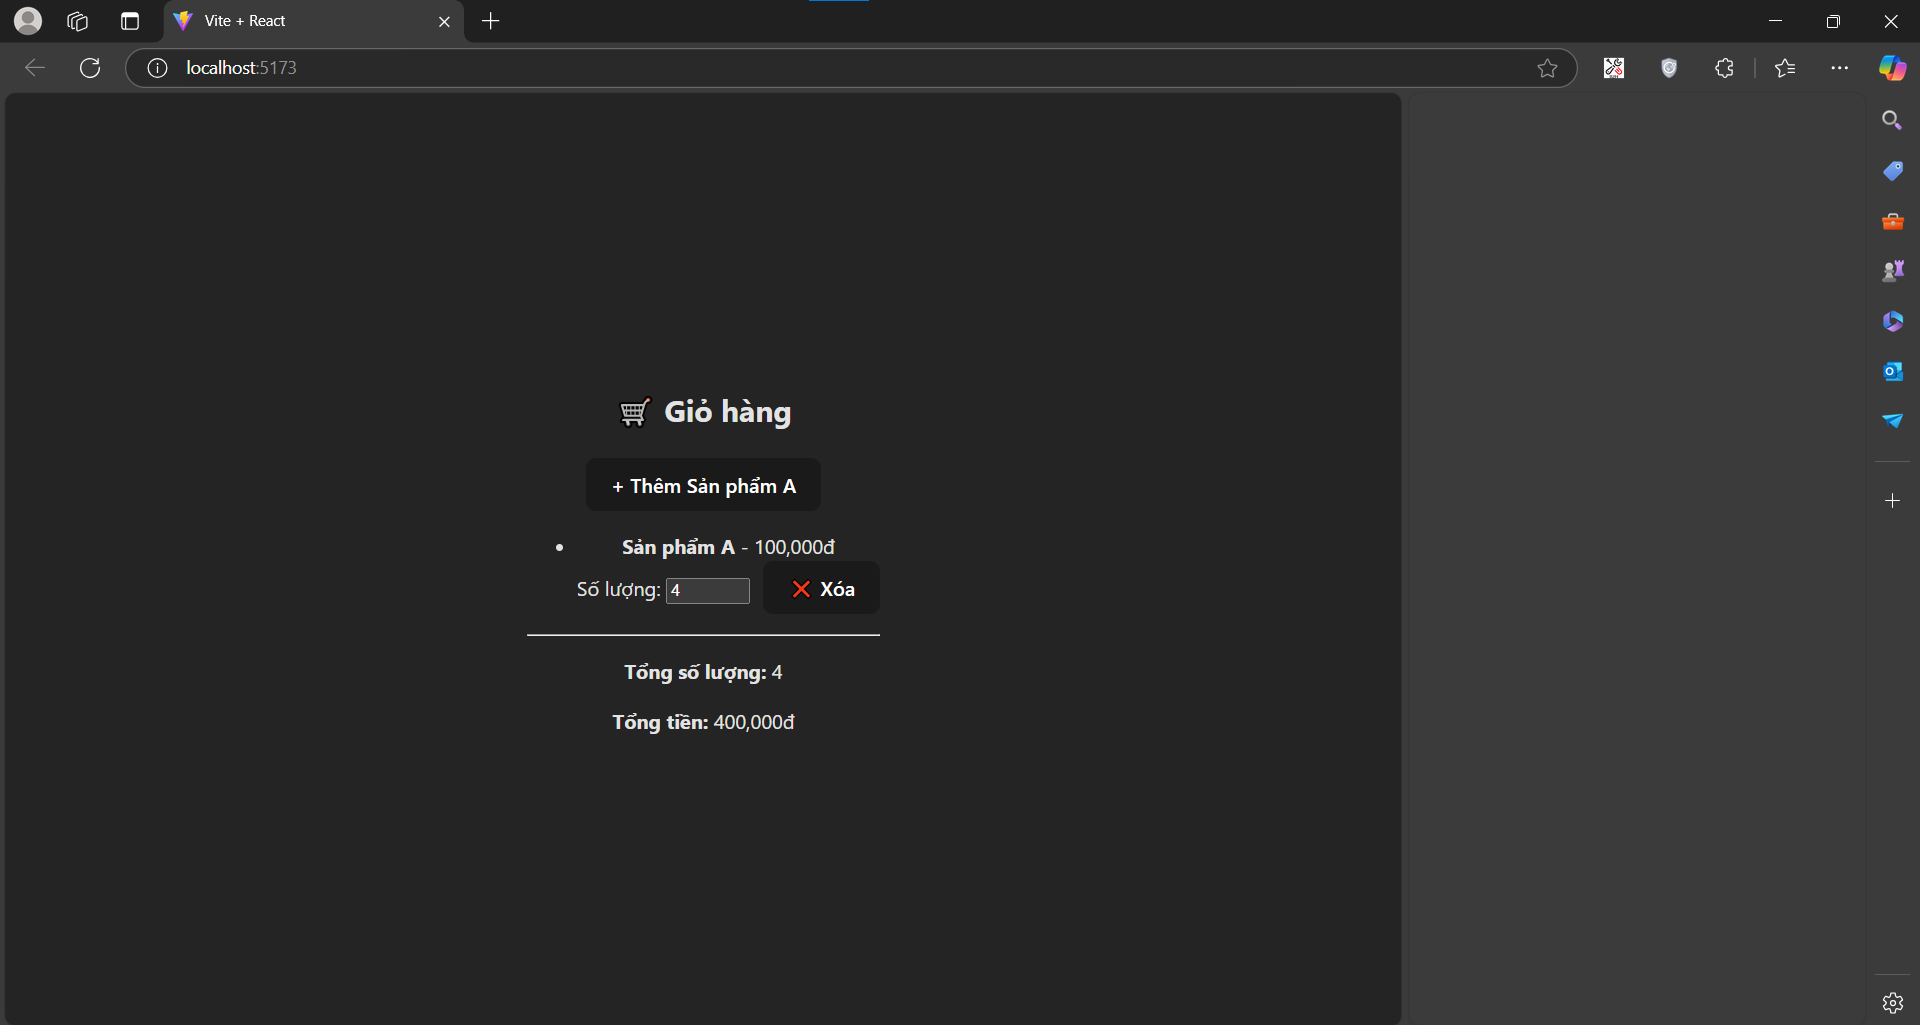
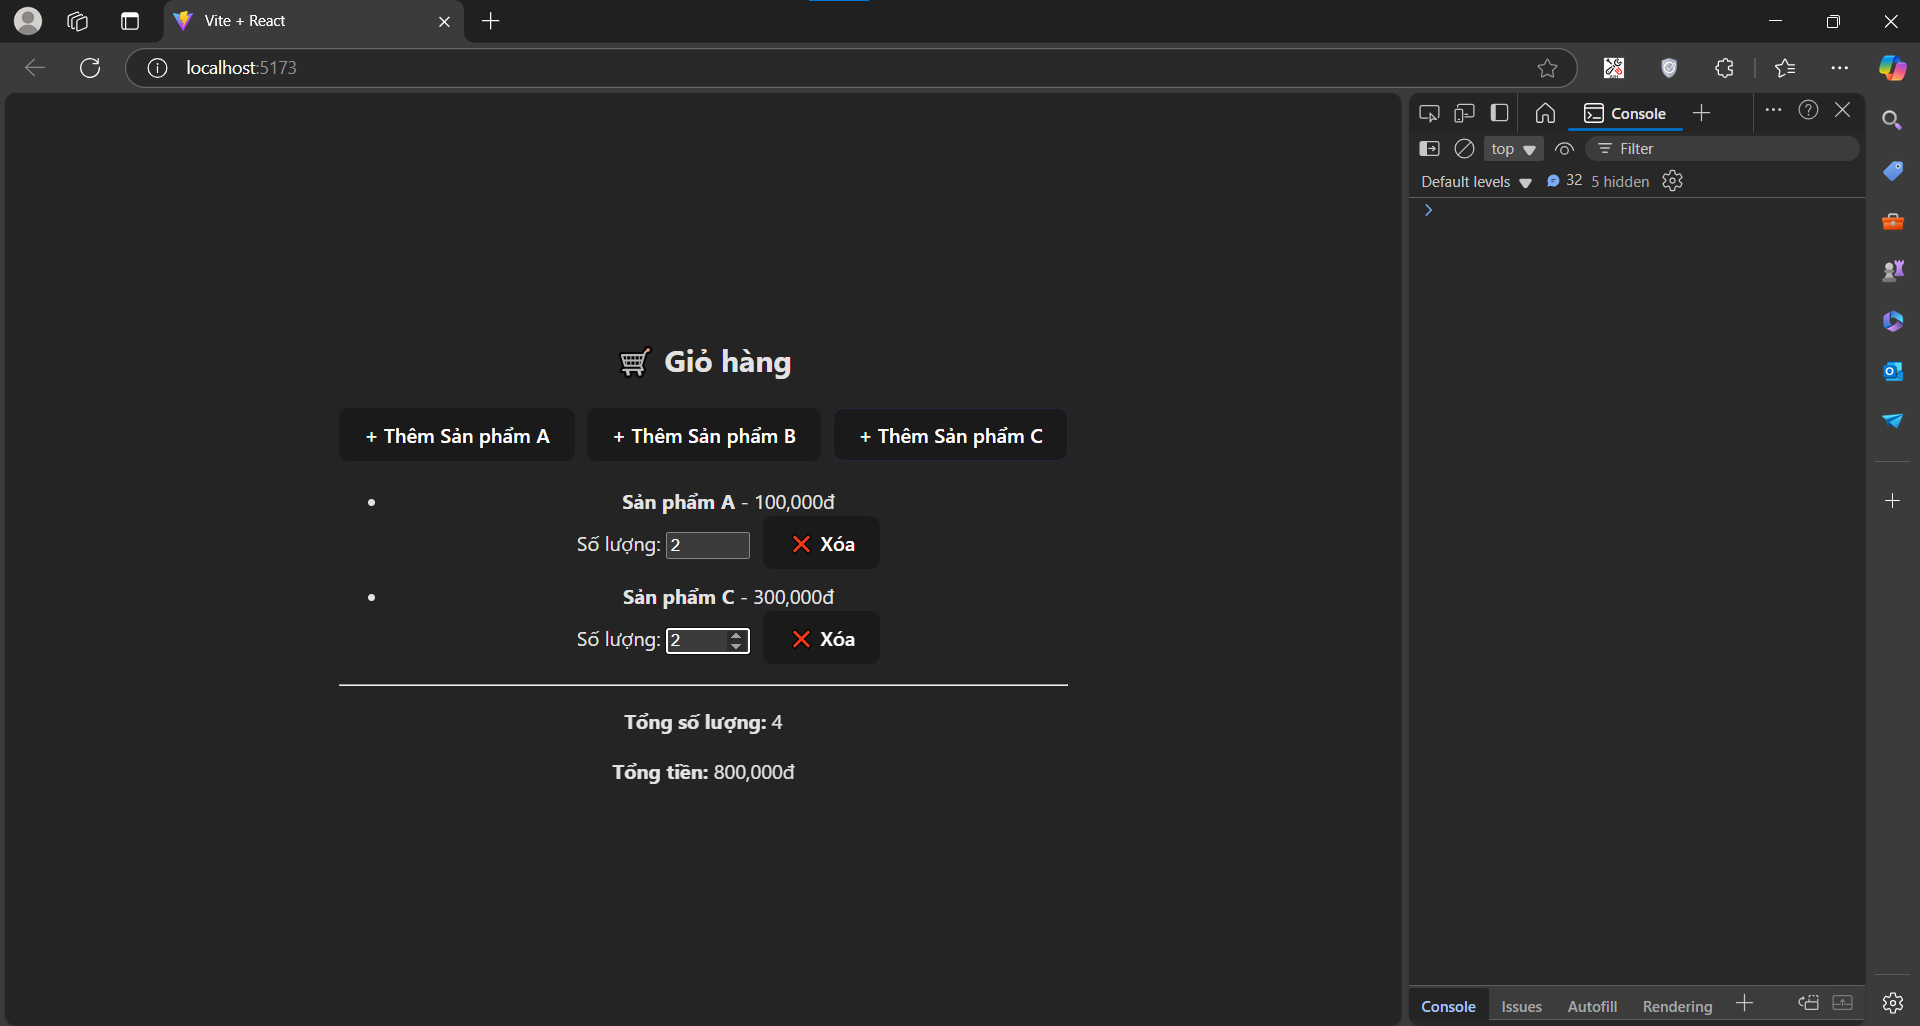
Update 4. Giỏ hàng (Shopping Cart)

diff --git a/src/components/Cart.jsx b/src/components/Cart.jsx
@@ -15,16 +15,41 @@ export default function Cart() {
   const totalPrice = useSelector(selectTotalPrice);
   const dispatch = useDispatch();
 
-  const handleAddSample = () => {
-    dispatch(addItem({ id: 1, name: "Sản phẩm A", price: 100000, quantity: 1 }));
+  // Thêm nhiều sản phẩm khác nhau
+  const handleAddProduct = (product) => {
+    dispatch(addItem(product));
   };
 
   return (
     <div style={{ padding: 20 }}>
       <h2>🛒 Giỏ hàng</h2>
-      <button onClick={handleAddSample}>+ Thêm Sản phẩm A</button>
 
-      <ul>
+      {/* Các nút thêm sản phẩm */}
+      <button
+        onClick={() =>
+          handleAddProduct({ id: 1, name: "Sản phẩm A", price: 100000, quantity: 1 })
+        }
+      >
+        + Thêm Sản phẩm A
+      </button>
+      <button
+        onClick={() =>
+          handleAddProduct({ id: 2, name: "Sản phẩm B", price: 200000, quantity: 1 })
+        }
+        style={{ marginLeft: 10 }}
+      >
+        + Thêm Sản phẩm B
+      </button>
+      <button
+        onClick={() =>
+          handleAddProduct({ id: 3, name: "Sản phẩm C", price: 300000, quantity: 1 })
+        }
+        style={{ marginLeft: 10 }}
+      >
+        + Thêm Sản phẩm C
+      </button>
+
+      <ul style={{ marginTop: 20 }}>
         {cartItems.map((item) => (
           <li key={item.id} style={{ marginBottom: 10 }}>
             <strong>{item.name}</strong> - {item.price.toLocaleString()}đ
@@ -39,7 +64,10 @@ export default function Cart() {
               min={1}
               style={{ width: 60 }}
             />
-            <button onClick={() => dispatch(removeItem(item.id))} style={{ marginLeft: 10 }}>
+            <button
+              onClick={() => dispatch(removeItem(item.id))}
+              style={{ marginLeft: 10 }}
+            >
               ❌ Xóa
             </button>
           </li>
@@ -47,8 +75,12 @@ export default function Cart() {
       </ul>
 
       <hr />
-      <p><strong>Tổng số lượng:</strong> {totalQuantity}</p>
-      <p><strong>Tổng tiền:</strong> {totalPrice.toLocaleString()}đ</p>
+      <p>
+        <strong>Tổng số lượng:</strong> {totalQuantity}
+      </p>
+      <p>
+        <strong>Tổng tiền:</strong> {totalPrice.toLocaleString()}đ
+      </p>
     </div>
   );
 }

diff --git a/src/App.jsx b/src/App.jsx
@@ -27,12 +27,12 @@ function App() {
         {/* <ChangeValue_ReduxToolkit /> */}
         {/* <TodoApp /> */}
         {/* <ThemeToggle /> */}
-        {/* <Cart /> */}
+        <Cart />
         {/* <Auth /> */}
         {/* <Users /> */}
-        <Counter />
+        {/* <Counter /> */}
         {/* <BMICalculator /> */}
-        <EventManager />
+        {/* <EventManager /> */}
       </Provider>
     </>
   );
